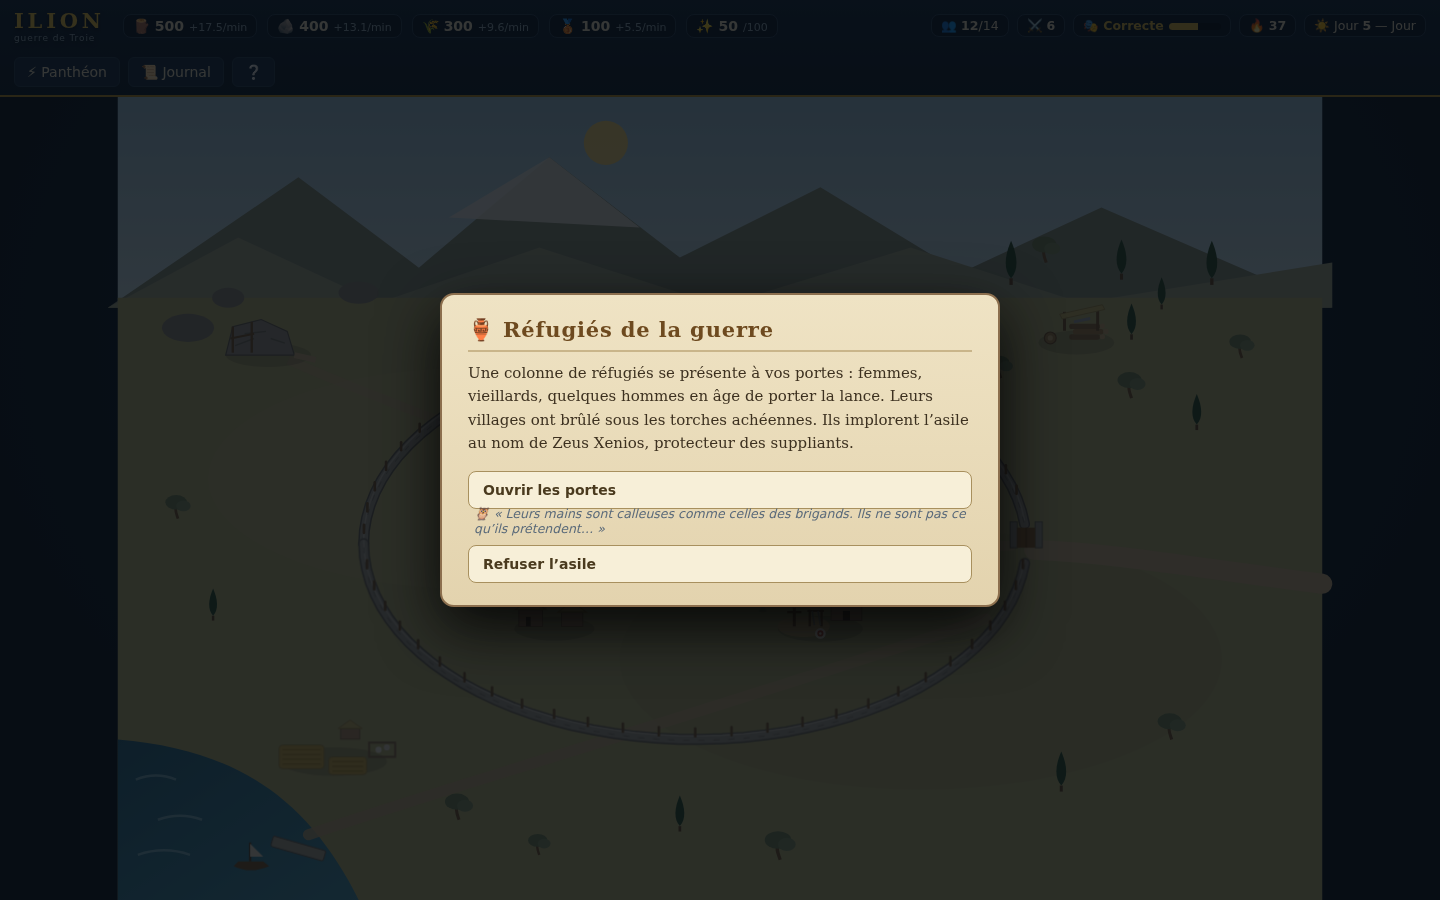
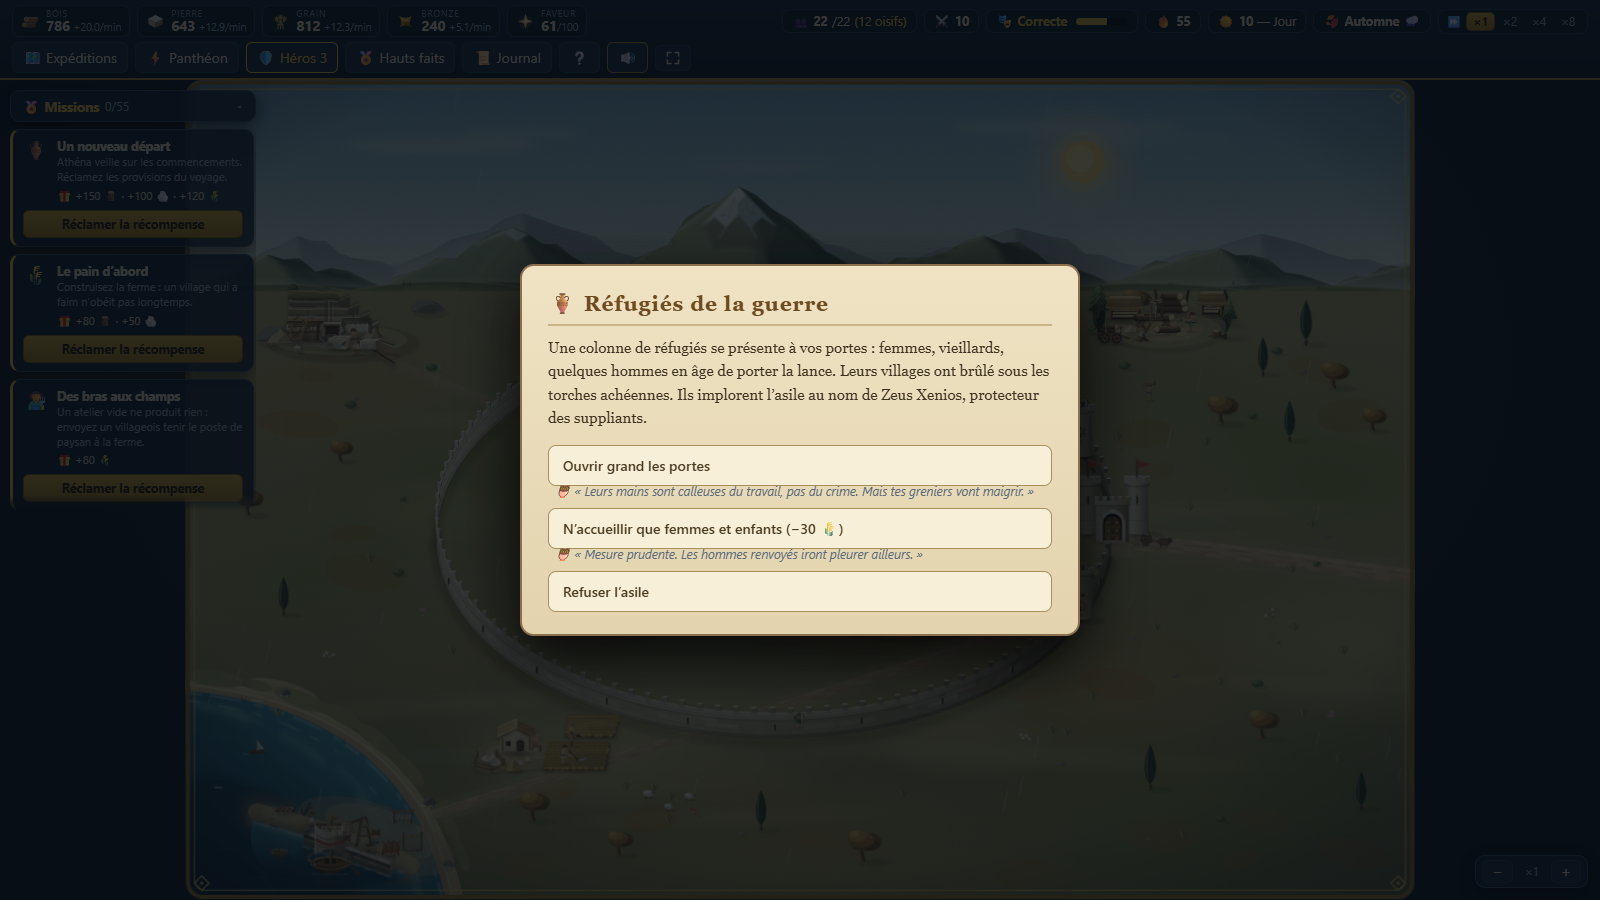
docs : README refait pour les lots 2 et 3 — onze captures régénérées, saisons, héros, ferveur et prestige en images

diff --git a/README.md b/README.md
@@ -7,13 +7,14 @@
 >
 > Jeu de gestion de village en solo, à l'époque de la guerre de Troie. Bâtissez, défendez,
 > honorez les dieux — et regardez votre village **changer réellement d'apparence** à chaque
-> amélioration.
+> amélioration, à chaque saison, à chaque brèche.
 
 **100 % front-end** (React + TypeScript + SVG), sauvegarde locale, déployable sur GitHub Pages.
+Zéro image, zéro son téléchargé : **tout est dessiné et synthétisé par le code**.
 
-| Du hameau… | …à la cité fortifiée |
+| Du hameau… | …à la cité de légende |
 | --- | --- |
-| ![Village niveaux 1-2](docs/village-debut.png) | ![Village niveau max](docs/village-max.png) |
+| ![Village au premier printemps](docs/village-debut.jpg) | ![Cité complète, dix domaines au niveau 4](docs/village-max.jpg) |
 
 ## ✨ Ce qui rend PALLADION différent
 
@@ -22,90 +23,160 @@ Chaque bâtiment est dessiné **en SVG par code**, en volumes texturés (tuiles,
 chaume, sillons) avec une apparence distincte par niveau. Les remparts passent de la
 palissade de pieux → au muret de pierre sèche → à la muraille crénelée → aux hautes
 murailles « bâties par Poséidon » avec tours de guet et étendards. Idem pour les 9 autres
-bâtiments (temple, agora, forge, port…). Les dégâts se voient : fissures, décombres,
-brèche à la porte. Et le village **vit** : villageois qui flânent, char à bœufs sur la
-route, chèvres à la ferme, moutons au pré, fumées et braseros.
+domaines (temple, agora, forge, port…). Les dégâts se voient et **restent** : fissures,
+pans effondrés, vantaux arrachés — jusqu'à ce que vous payiez la pierre pour les relever.
+Et le village **vit** : villageois qui flânent, char à bœufs sur la route, chèvres à la
+ferme, moutons au pré, fumées et braseros.
+
+### 🌱 Quatre saisons et un ciel qui change tout
+Le calendrier tourne : quatre journées de jeu par saison. Le **printemps** fait lever les
+blés, l'**été** durcit la terre et ouvre la mer, l'**automne** remplit les greniers,
+l'**hiver ferme la mer** — port au tiers, places d'outre-mer hors d'atteinte. Par-dessus,
+une météo qui se retire toutes les quatre minutes : la **pluie** détend les cordes d'arc,
+la **brume** rogne la portée des tours et aveugle vos éclaireurs, l'**orage** rend la
+foudre de Zeus plus lourde, la **neige** met les colonnes au pas. Rien de tout cela n'est
+qu'un chiffre : le feuillage roussit puis tombe, les congères s'installent, les flocons
+tombent sur la scène.
+
+![L'hiver sur la Troade](docs/saisons.jpg)
 
 ### ⚔ Des vagues d'assaut PvE, jouées sous vos yeux
 La prospérité attire les convoitises : des bandes armées (pillards, guerriers achéens,
 mercenaires, béliers de siège) attaquent régulièrement. **« Attaque ennemie dans 5 min »** :
 les éclaireurs annoncent la composition de la vague **et la récompense promise** si vous
-tenez (bronze, faveur, ambiance). Les impatients peuvent **lancer l'assaut immédiatement
-pour +25 % de butin**. Puis la bataille se joue **en direct sur la carte** : marche
-d'approche, siège des remparts, tirs des archers depuis les murs, brèche, mêlée au cœur
-du village… Et pendant l'assaut, vous pouvez invoquer les dieux.
+tenez. Les impatients peuvent **lancer l'assaut immédiatement pour +25 % de butin**. La
+vague se scinde ensuite entre **plusieurs fronts** : chaque pan de mur a ses propres points
+de structure et **peut céder seul**. La caméra se rapproche du front le plus menacé et le
+suit, jusqu'à ce que vous repreniez la main à la molette.
 
-![Bataille](docs/bataille.png)
+![Un assaut sur trois fronts](docs/bataille.jpg)
 
-### 🗺 Mode campagne : à votre tour de piller
-8 places fortes de la Troade à mettre à sac, du simple camp de pillards à la forteresse
-mysienne : choisissez vos troupes (20 max), regardez l'assaut se jouer sur la carte du
-village ennemi — leurs murs, leurs archers, leur garnison — et raflez le butin. Score en
-**étoiles** façon classique : ★★★ à moins de 20 % de pertes. Les dieux répondent aussi
-pendant vos raids, et la retraite reste toujours possible pour sauver vos vétérans.
+### 🛡 Huit héros — qu'on nourrit, qu'on perd
+Ils ne s'achètent pas : ils viennent quand la cité en est digne. Hector veut des remparts
+de niveau 3 et Zeus en grâce ; Ulysse un port et la confiance d'Athéna ; Achille du sang
+déjà versé. Chacun apporte un **passif permanent** et une **capacité** à invoquer en
+bataille, gagne des niveaux en combattant — et **mange chaque minute**. Trois rappels
+d'entretien sans réponse, et il reprend la route.
 
-![Expédition](docs/expedition.png)
+Surtout, chacun traverse un **arc à embranchements** dont certaines branches ne se
+rejouent pas : Achille peut mourir sous la flèche de Pâris, ou survivre inutile ; Hector
+peut sortir affronter son destin, ou obéir et ne plus jamais grandir. **Les héros doivent
+pouvoir mourir** — c'est ce qui rend leur présence tendue plutôt que confortable.
 
-### ⚡ Les Olympiens, alliés et juges
-- **Zeus** — la foudre s'abat sur les assaillants ; mais sa loi de l'hospitalité (*xenia*)
+| La maisonnée héroïque | Un choix sans retour |
+| --- | --- |
+| ![Panneau des héros](docs/heros.png) | ![L'arc d'Hector](docs/heros-arc.png) |
+
+### 🗺 Piller… ou secourir
+8 places fortes de la Troade, chacune avec son **décor peint** et son cadre — camp de
+tentes dans la plaine, comptoir à amphores sur la grève, cité à colonnade sur son île,
+forteresse à donjon sur son éperon rocheux. Deux façons d'y marcher :
+
+- **Piller** — butin élevé, mais Zeus Xenios n'aime pas cela, la menace monte, et le
+  village **s'en souvient** : sa garnison sera plus fournie à votre prochaine visite.
+- **Secourir** — quand un village assiégé appelle à l'aide, vous avez quelques minutes
+  pour trancher. Aucun butin, la possibilité d'y perdre des hommes pour rien — mais la
+  faveur des dieux et une **alliance** : tribut régulier, et des renforts qui montent sur
+  vos remparts (et tombent avant vos hommes) à chaque assaut.
+
+Le choix est cornélien à dessein : la richesse contre le réseau.
+
+![L'assaut de la cité de Lesbos](docs/expedition.jpg)
+
+### ⚡ Les Olympiens, alliés et juges — et ça se voit
+- **Zeus** — la foudre s'abat sur les assaillants ; sa loi de l'hospitalité (*xenia*)
   punit qui ferme sa porte aux suppliants.
-- **Poséidon** — ressoude les pierres de vos remparts… ou les ébranle d'un séisme si vous l'offensez.
-- **Athéna** — bouclier stratège en bataille ; si elle vous fait confiance (relation ≥ 25),
+- **Poséidon** — ressoude les pierres de vos remparts, y compris les pans déjà à terre.
+- **Athéna** — égide en bataille ; si elle vous fait confiance (relation ≥ 25),
   **elle murmure la vérité cachée des dilemmes**.
 - **Arès** — fureur au combat, recrues accélérées ; capricieux et vindicatif.
 
-Chaque dieu a une **relation** (−100 à +100) façonnée par vos choix. Un dieu bafoué finit
-toujours par se venger.
+La **ferveur** (−100 à +100) ne change pas que les chiffres : elle change la **mise en
+scène**. L'élu de Zeus voit un éclair pourpre fendre le ciel ; celui d'Athéna, une égide
+à tête de Gorgone tournoyante ; celui d'Arès, une aura sanglante et des corbeaux. Et un
+dieu **offensé** produit un visuel **pâle et avorté** — l'éclair n'atteint même pas le
+sol. La punition se voit avant de se compter.
+
+![Le panthéon](docs/pantheon.png)
 
 ### 🏺 Des dilemmes moraux à conséquences
-Des réfugiés qui implorent l'asile (sincères… ou pillards infiltrés), Zeus déguisé en
-mendiant, un cheval de bois abandonné devant vos portes (*« Je crains les Grecs, même
-porteurs de présents ! »*), l'émissaire d'Hector qui réclame des lances… Certaines issues
-sont **différées** : les traîtres frappent à la nuit tombée.
+41 dilemmes à **issues multiples**, tirées à l'ouverture : des réfugiés qui implorent
+l'asile (sincères… ou pillards infiltrés), Zeus déguisé en mendiant, un cheval de bois
+abandonné devant vos portes (*« Je crains les Grecs, même porteurs de présents ! »*),
+l'émissaire d'Hector qui réclame des lances… Certaines issues sont **différées** : les
+traîtres frappent à la nuit tombée. Le murmure d'Athéna lit l'issue **déjà tirée** : il
+ne peut structurellement pas mentir.
 
-![Événement](docs/evenement.png)
+![Un dilemme](docs/evenement.png)
 
-### 🏅 Vingt missions comme fil rouge
+### 🏅 Hauts faits, prestige et fin de règne
+45 hauts faits en cinq catégories jalonnent la partie — « tenir un assaut sur trois fronts
+sans perdre un homme », « élu des quatre Olympiens », « trois étoiles sur les huit places
+fortes », « traverser un hiver sans vider le grenier ». Ils alimentent un **score de
+prestige** détaillé ligne à ligne. Quand vous jugez le règne accompli, **abdiquez** : le
+score se fige et les aèdes vous donnent un titre, de « Roi de pacotille » à
+« Égal des dieux ».
+
+![Hauts faits et prestige](docs/hauts-faits.png)
+
+### 🎖 Cinquante-cinq missions comme fil rouge
 Toujours un objectif à l'écran, toujours une récompense à la clé : des provisions du
-premier jour jusqu'à la « Cité de légende », vingt missions guident la partie — bâtir,
-recruter, repousser un assaut, réussir un raid trois étoiles, gagner la confiance d'un
-dieu… Chaque réclamation finance l'étape suivante : pas de temps mort.
+premier jour jusqu'au Palladion lui-même, les missions guident la partie en cinq actes —
+bâtir, pourvoir les postes, repousser un assaut, réussir un raid trois étoiles, gagner la
+confiance d'un dieu… Chaque réclamation finance l'étape suivante : pas de temps mort.
 
-![Missions](docs/missions.png)
+![Le suivi des missions](docs/missions.jpg)
 
 ### 🎭 L'ambiance du village
-Fêtes, victoires et greniers pleins exaltent le village (production accrue). Famine,
-défaites et choix cruels le minent. Sous 25 : **mutinerie** — ouvrez les greniers, promettez
-(et tenez parole !), ou réprimez dans le sang. À 0, vos soldats désertent.
+Fêtes, victoires et greniers pleins **exaltent** le village (production accrue). Famine,
+défaites et choix cruels le rendent **morose**. Sous 25 : **mutinerie** — ouvrez les
+greniers, promettez (et tenez parole !), ou réprimez dans le sang. À 0, vos soldats
+désertent. L'ambiance tient en un mot, toujours lisible dans le bandeau du haut.
 
-### 🌙 Le temps continue sans vous — et s'accélère à la demande
+### 🎵 Une bande-son entièrement synthétisée
+Pas un octet d'audio téléchargé : tout est fabriqué à la volée en **Web Audio**. Une lyre
+égrène un mode phrygien au village paisible, les cors de guerre montent à l'alerte, le
+tambour de siège prend le relais quand la colonne touche les murs, et le chant de l'aède
+salue la victoire. Coupe-son et deux curseurs persistés — et rien ne joue avant votre
+premier geste.
+
+### 🌙 Le temps continue sans vous — et vous menez la caméra
 Jeu en temps réel avec cycle jour/nuit. Onglet fermé, le village vit : production,
-constructions, croissance… et assauts nocturnes, résolus automatiquement. Au retour,
-un rapport raconte tout. Et façon **Sims**, les boutons **×1 ×2 ×4 ×8** (touches 1–4)
-accélèrent tout — production, chantiers, recrues, cycle du jour et compte à rebours des
-attaques — avec retour automatique en ×1 pendant les batailles.
+constructions, croissance… et assauts nocturnes, résolus automatiquement. Au retour, un
+rapport raconte tout. Façon **Sims**, les boutons **×1 ×2 ×4 ×8** (touches 1–4) accélèrent
+tout, avec retour automatique en ×1 pendant les batailles. Et la carte se manipule :
+**molette** pour zoomer là où pointe le curseur, **glisser** pour se déplacer,
+**double-clic** pour rendre la main à la caméra automatique.
 
 ## 🎮 Systèmes de jeu
 
-- **4 ressources** (bois, pierre, grain, bronze) + faveur divine + population
-- **10 bâtiments** à 4 niveaux, chacun avec son art SVG par niveau ; l'Agora gouverne
-  le niveau maximal des autres, 2 chantiers simultanés maximum
-- **3 unités** (lancier, archer, hoplite) — les archers tirent depuis les remparts tant
-  que la muraille tient
-- **Campagne** : 8 villages à piller, étoiles à la clé, butin réduit aux pillages répétés,
-  cooldown par cible — le moteur de bataille est le même en attaque et en défense
-- **Défense récompensée** : chaque assaut repoussé rapporte bronze + faveur, +25 % si
-  vous avez osé le déclencher vous-même
-- **Commerce** au port, **sacrifices** au temple, **réparation** des remparts
+- **4 ressources** (bois, pierre, grain, bronze) + faveur divine + population nommée
+- **10 bâtiments** à 4 niveaux, chacun avec son art SVG par niveau ; l'Agora gouverne le
+  niveau maximal des autres, 2 chantiers simultanés maximum
+- **Postes de travail** : un atelier sans ouvrier ne produit rien — affectez vos villageois
+- **3 unités** (lancier, archer, hoplite) — les archers tirent depuis les remparts tant que
+  leur pan de muraille tient
+- **Assauts multi-fronts** : jusqu'à 3 secteurs assaillis, chacun avec ses points de
+  structure et sa propre brèche
+- **8 héros** avec passif, capacité active, niveaux 1→5, entretien et arc narratif mortel
+- **Campagne** : 8 villages à piller ou à secourir, étoiles, butin dégressif, garnisons qui
+  se renforcent, alliances à tribut — le moteur de bataille est le même en attaque et en défense
+- **4 saisons × 6 météos** pesant sur la récolte, la portée, l'allure et l'alerte
+- **41 dilemmes** à issues multiples, **55 missions**, **45 hauts faits**
 - **Menace** croissante, vagues générées par budget, déroute ennemie à 70 % de pertes
-- Sauvegarde automatique en `localStorage` (aucun serveur)
+- Sauvegarde automatique en `localStorage` (aucun serveur, aucun compte)
 
 ## 🛠 Stack
 
 - [Vite](https://vitejs.dev) + [React 18](https://react.dev) + TypeScript (strict)
 - [zustand](https://github.com/pmndrs/zustand) + immer pour l'état du jeu (tick à 4 Hz)
 - Rendu 100 % **SVG dessiné par code** — zéro asset externe, zéro dépendance graphique
+- Son 100 % **synthétisé en Web Audio** — zéro échantillon
 - Aucun backend : jouable en statique, sauvegarde locale
+
+Le style graphique (lumière au nord-ouest, ombres portées vers le sud-est, aucun contour
+noir, tirages déterministes) est documenté dans [`docs/STYLE-ART.md`](docs/STYLE-ART.md).
+La feuille de route et la dette connue vivent dans [`docs/ROADMAP.md`](docs/ROADMAP.md).
 
 ## 🚀 Développement
 
@@ -118,6 +189,20 @@ npm run build     # production dans dist/
 npm run preview   # tester le build
 ```
 
+### 📸 Regénérer les captures du README
+
+Les images de ce fichier sont **reproductibles** : chaque vignette pose un état de jeu
+précis (saison, bâtiments, héros, panneau ouvert…) avant de photographier l'écran.
+
+```bash
+npm run dev -- --port 5199 --strictPort   # dans un terminal
+npm run captures                          # dans un autre
+```
+
+Le script utilise le Chrome (ou l'Edge) déjà installé sur la machine — pas de navigateur
+à télécharger. Il échoue si la moindre erreur JavaScript survient pendant les captures :
+c'est aussi le test de fumée du projet.
+
 ## 🌐 Déploiement sur GitHub Pages
 
 1. Créer un repo GitHub et pousser ce projet sur `main`.
@@ -128,11 +213,13 @@ npm run preview   # tester le build
 
 ## 🗺 Pistes d'évolution
 
-- Héros récurrents (Hector, Ulysse…) avec arcs narratifs à embranchements
-- Expéditions : envoyer des troupes piller ou secourir (risque/récompense)
-- Saisons et météo influençant production et batailles
-- Sons et musique (lyre, cors de guerre)
-- Succès / hauts faits et prestige de fin de partie
+- **Tests automatisés** (Vitest sur l'économie, le combat, la résolution hors-ligne)
+- **Siège sans fin** : vagues de difficulté croissante, score et classement local
+- **Nouvelle Partie +** : rejouer en gardant le prestige du règne précédent
+- **Formations et ordres** en bataille, nouvelles unités (frondeur, char, machines de siège)
+- **Héros ennemis nommés** : Achille assiégeant *votre* village, capacités retournées contre vous
+- **Familles et lignées** : les villageois se marient, vieillissent, transmettent leur métier
+- **Campagne narrative** en cinq actes, de l'Iliade au cheval de bois
 - i18n (structure des textes déjà centralisée)
 
 ---
